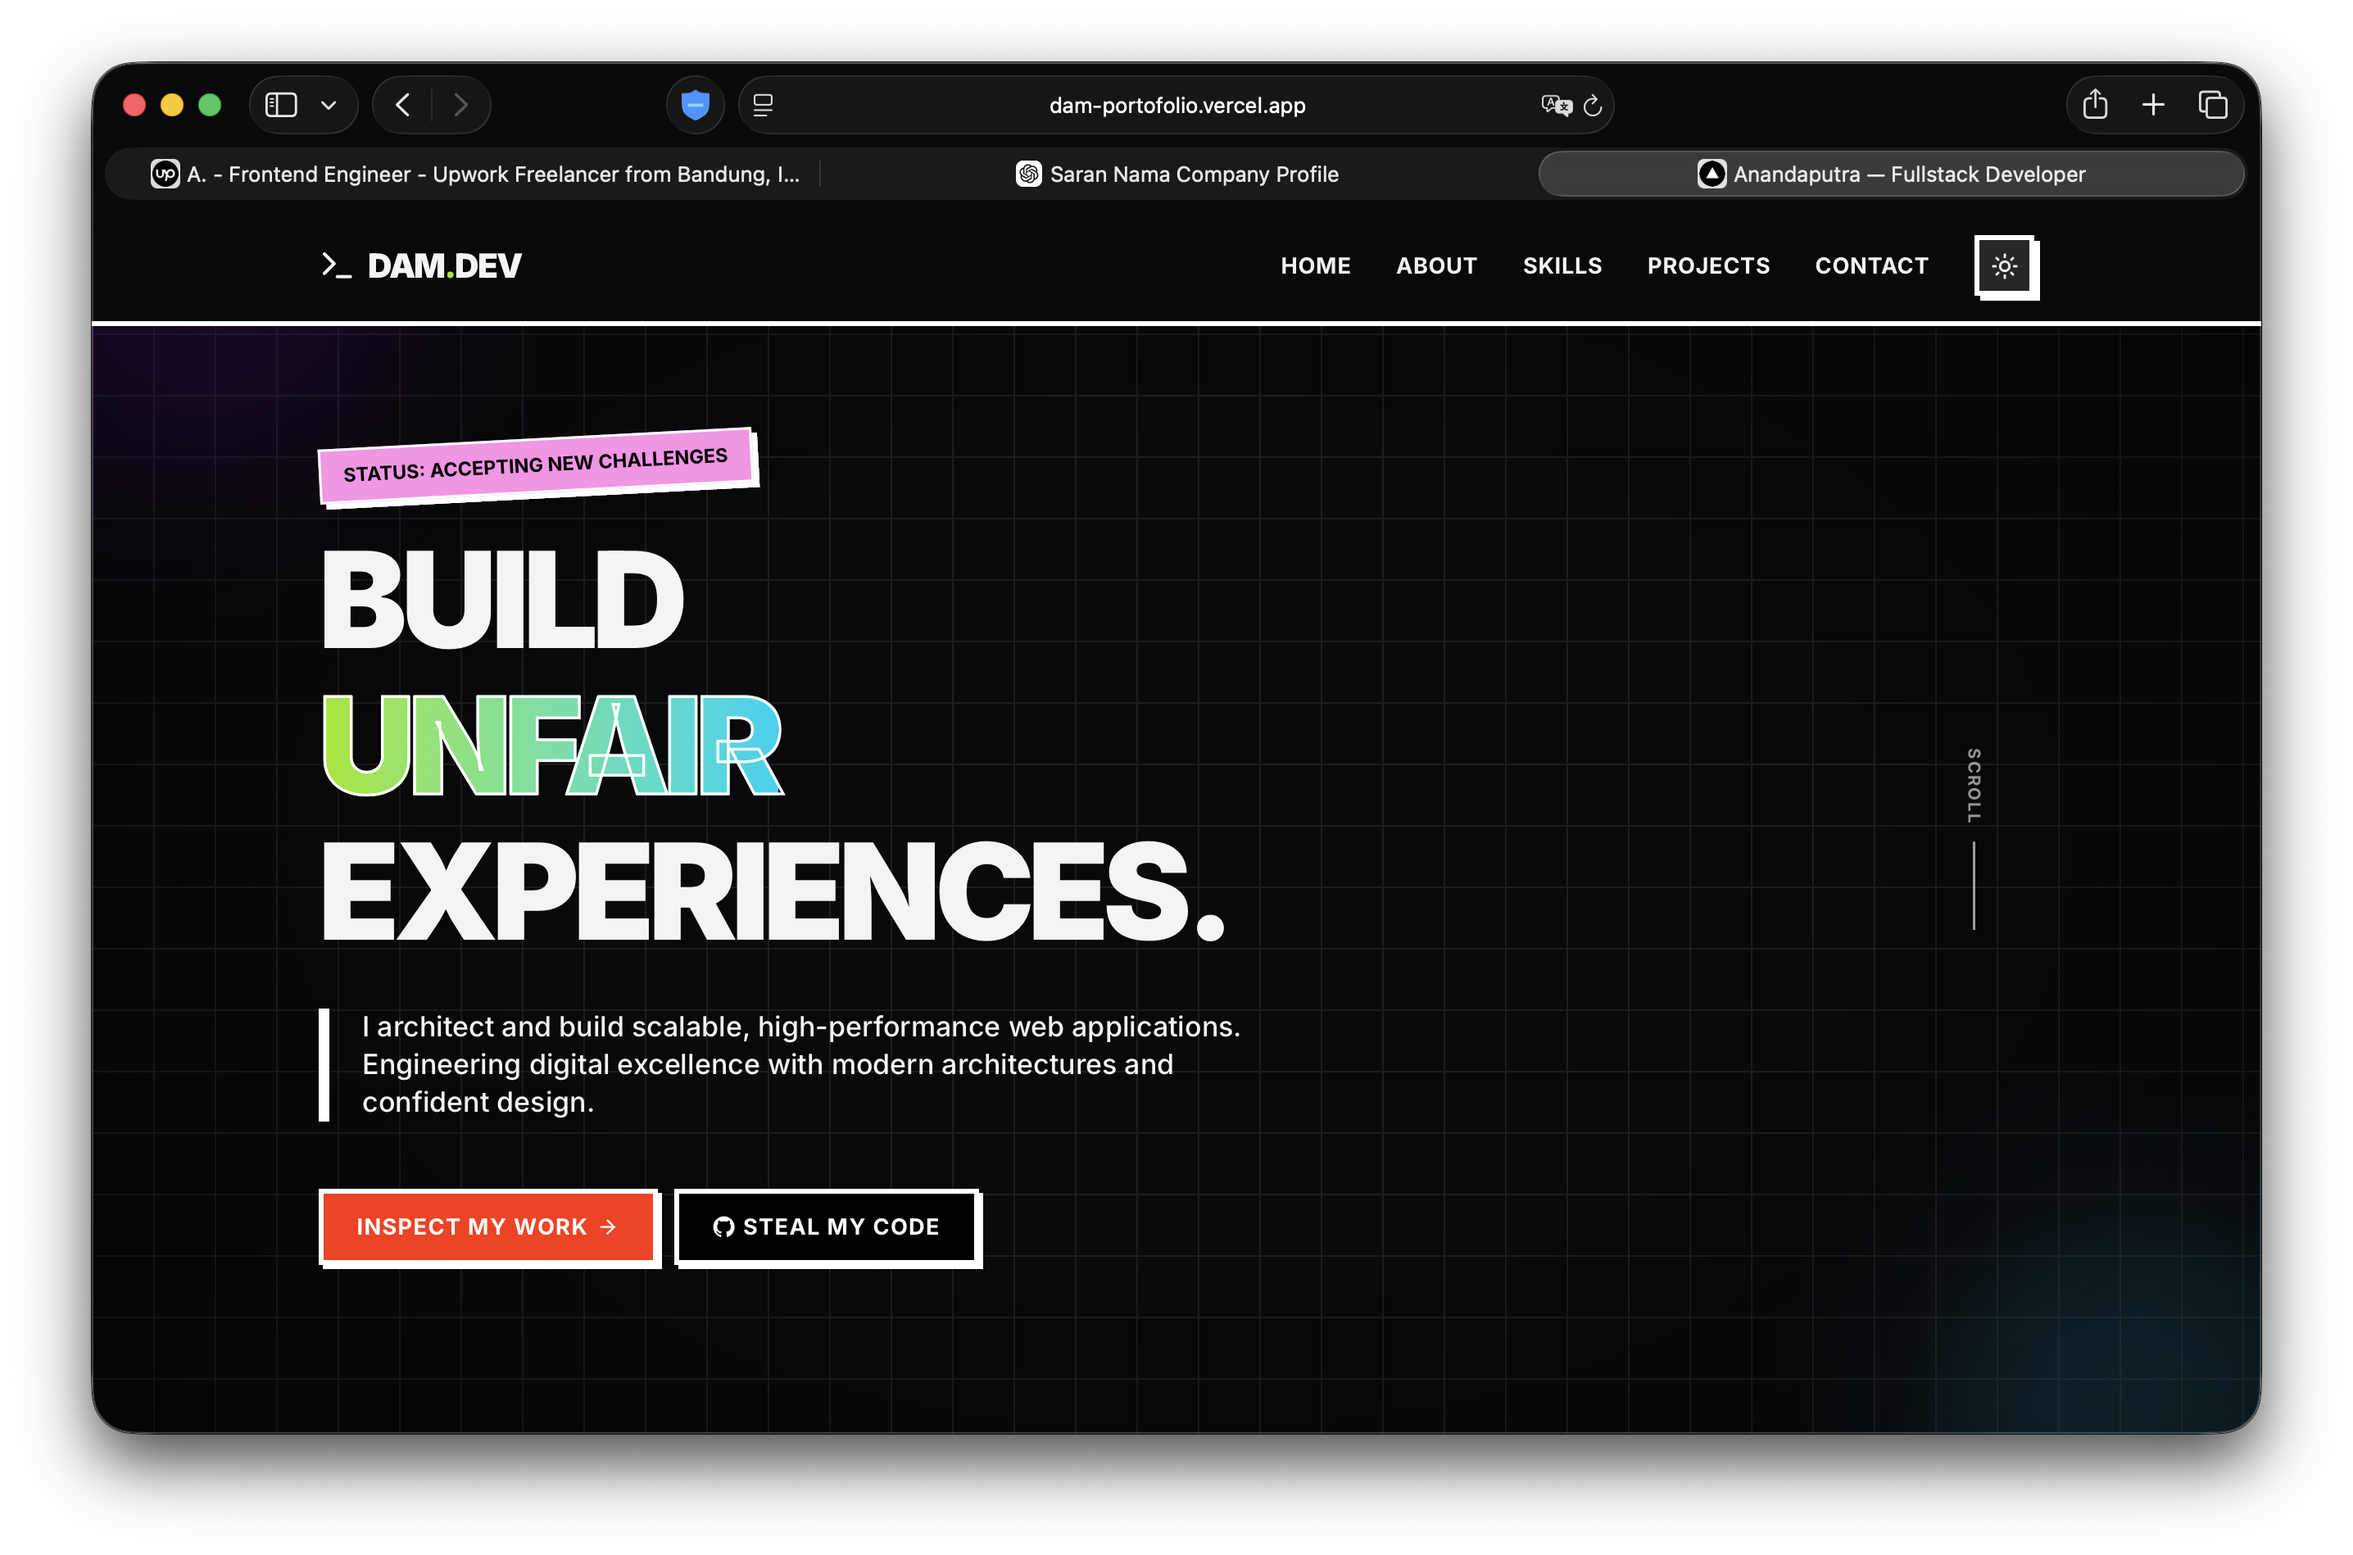
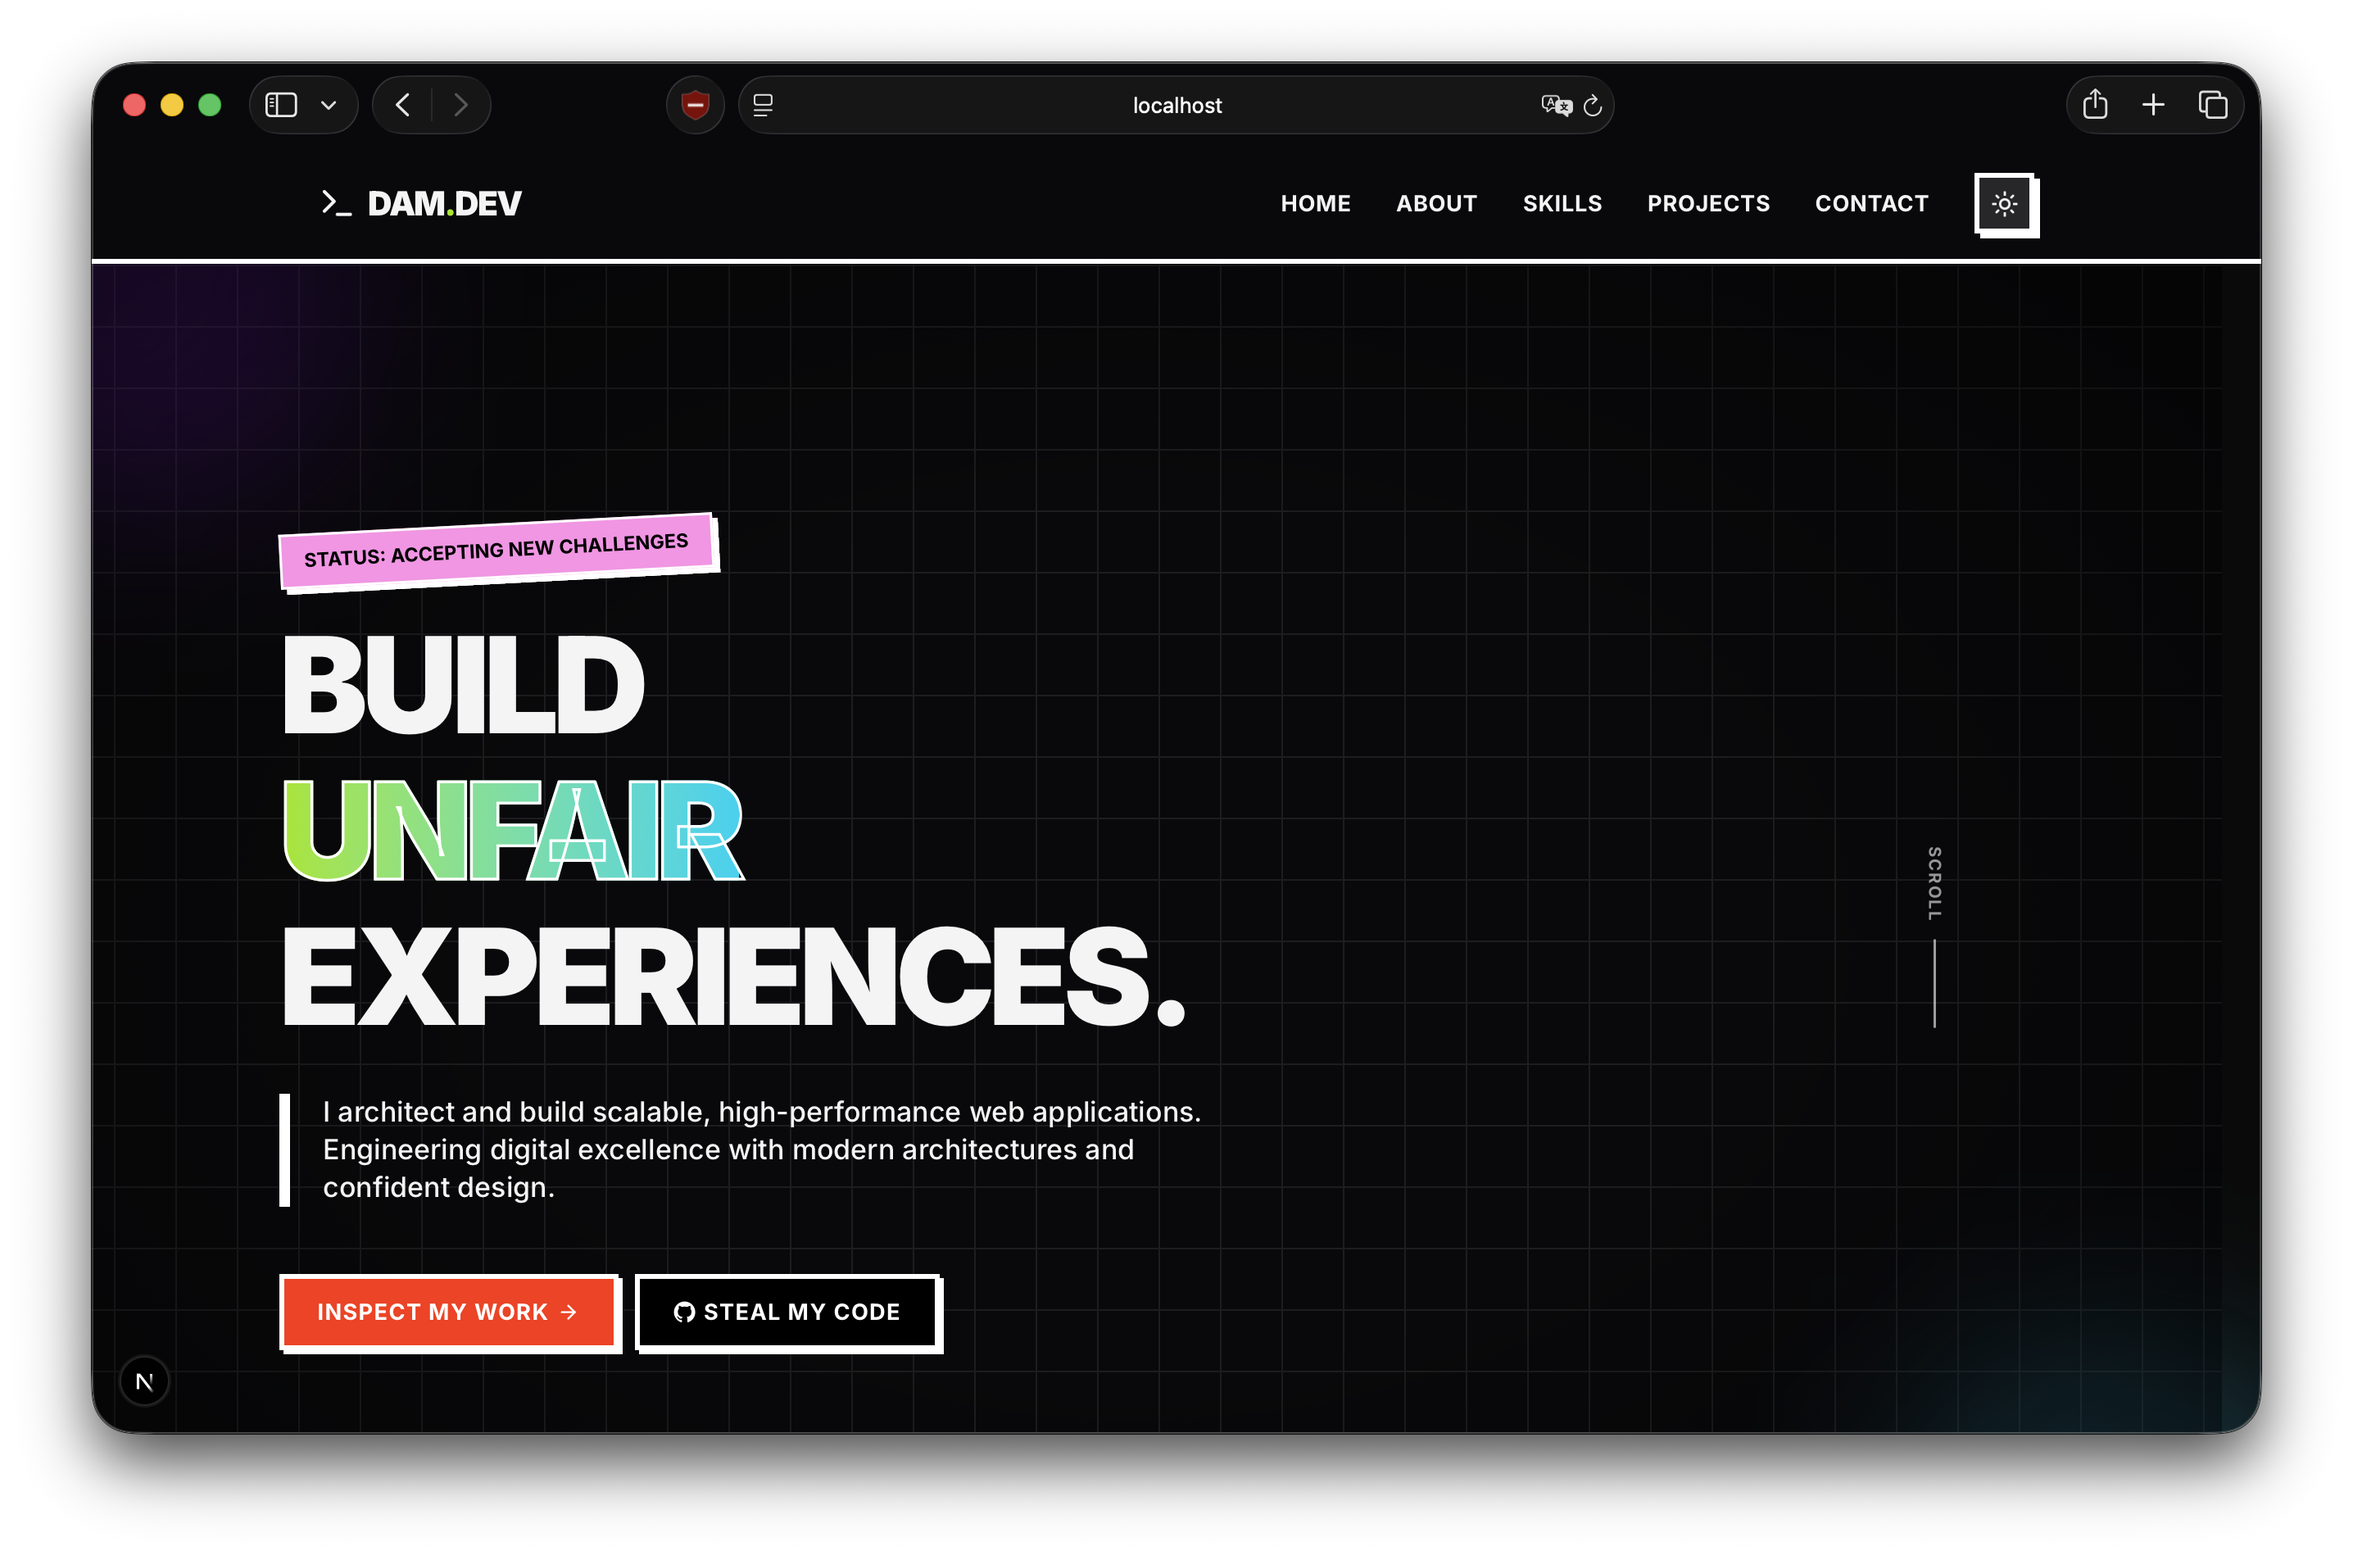
fix: fix responsive design

Changed region(s): [[0.093, 0.2487, 0.5268, 0.8704], [0.031, 0.0622, 0.9607, 0.2176], [0.4338, 0.0622, 0.5578, 0.1243]]

diff --git a/components/hero-section.tsx b/components/hero-section.tsx
@@ -6,16 +6,15 @@ import { motion } from "motion/react";
 
 export default function HeroSection() {
   return (
-    <section id="home" className="relative py-c-20 lg:my-10 ">
-      <div className="pointer-events-none absolute inset-0 z-0">
+    <section id="home" className="relative pb-c-20 pt-c-60">
+      <div className="pointer-events-none absolute inset-0 z-0 overflow-hidden">
         <div className="absolute -top-25 -left-25 w-80 h-80 bg-pink-300/25 dark:bg-purple-600/25 blur-3xl rounded-full" />
         <div className="absolute -bottom-20 -right-20 w-80 h-80 bg-cyan-300/25 dark:bg-cyan-500/25 blur-3xl rounded-full" />
-
         <div className="absolute inset-0 opacity-[0.06] dark:opacity-[0.08] bg-[linear-gradient(to_right,#000_1px,transparent_1px),linear-gradient(to_bottom,#000_1px,transparent_1px)] dark:bg-[linear-gradient(to_right,#fff_1px,transparent_1px),linear-gradient(to_bottom,#fff_1px,transparent_1px)] bg-size-[44px_44px]" />
         <div className="absolute inset-0 bg-[radial-gradient(ellipse_at_center,transparent_50%,rgba(0,0,0,0.12))] dark:bg-[radial-gradient(ellipse_at_center,transparent_40%,rgba(0,0,0,0.55))]" />
       </div>
 
-      <div className="max-w-7xl mx-auto px-6 flex flex-col justify-center  relative min-h-screen">
+      <div className="max-w-7xl mx-auto px-6 flex flex-col justify-center  relative ">
         <motion.div className="max-w-4xl z-10">
           <div className="inline-block mb-6 px-4 py-2 border-2 border-black dark:border-white font-bold bg-[#FF90E8] dark:bg-[#FF90E8] text-black dark:text-black shadow-[4px_4px_0px_0px_black] dark:shadow-[4px_4px_0px_0px_white] -rotate-3 text-c-5">
             STATUS: ACCEPTING NEW CHALLENGES

diff --git a/components/contact-section.tsx b/components/contact-section.tsx
@@ -37,10 +37,10 @@ export default function ContactSection() {
               solution.
             </p>
 
-            <div className="space-y-6">
+            <div className="space-y-6 text-c-6 md:text-c-7 lg:text-c-8">
               <a
                 href="mailto:hello@example.com"
-                className="flex items-center space-x-4 text-xl font-bold group"
+                className="flex items-center space-x-4 font-bold group"
               >
                 <div className="p-4 bg-yellow-300 text-black border-4 border-black dark:border-white transition-all group-hover:translate-x-1 group-hover:translate-y-1">
                   <Mail size={24} />
@@ -50,7 +50,7 @@ export default function ContactSection() {
                 </span>
               </a>
 
-              <div className="flex items-center space-x-4 text-xl font-bold group">
+              <div className="flex items-center space-x-4 font-bold group">
                 <div className="p-4 bg-cyan-300 text-black border-4 border-black dark:border-white transition-all group-hover:translate-x-1 group-hover:translate-y-1">
                   <Globe size={24} />
                 </div>

diff --git a/app/page.tsx b/app/page.tsx
@@ -10,7 +10,7 @@ import MarqueeSection from "@/components/marquee-section";
 export default function Home() {
   return (
     <div
-      className={`min-h-screen bg-[#FDFBF7] dark:bg-zinc-950 text-zinc-900 dark:text-zinc-100 font-sans selection:bg-lime-400 selection:text-black transition-colors duration-300`}
+      className={`bg-[#FDFBF7] dark:bg-zinc-950 text-zinc-900 dark:text-zinc-100 font-sans selection:bg-lime-400 selection:text-black transition-colors duration-300`}
     >
       <Navbar />
       <div>

diff --git a/components/navbar.tsx b/components/navbar.tsx
@@ -36,7 +36,7 @@ export default function Navbar() {
   if (!mounted) return null;
 
   return (
-    <div className="mb-c-35 lg:mb-c-28 xl:mb-0">
+    <div>
       <nav
         className={`fixed top-0 w-full z-40 border-b-4 border-black dark:border-white bg-[#FDFBF7] dark:bg-zinc-950 transition-colors duration-300`}
       >
